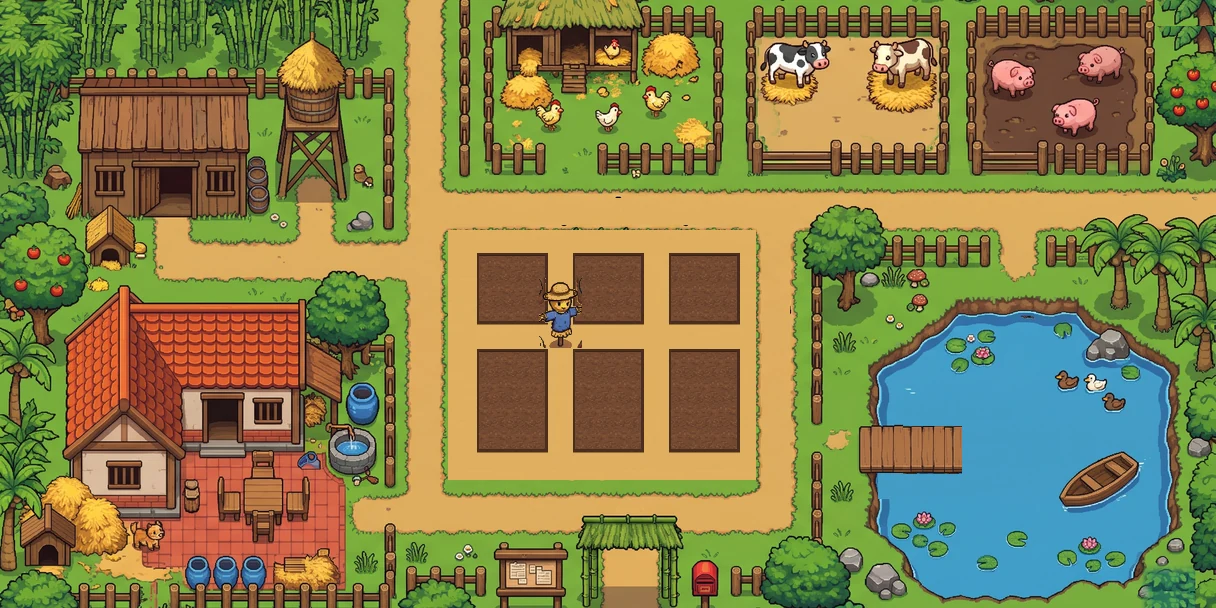
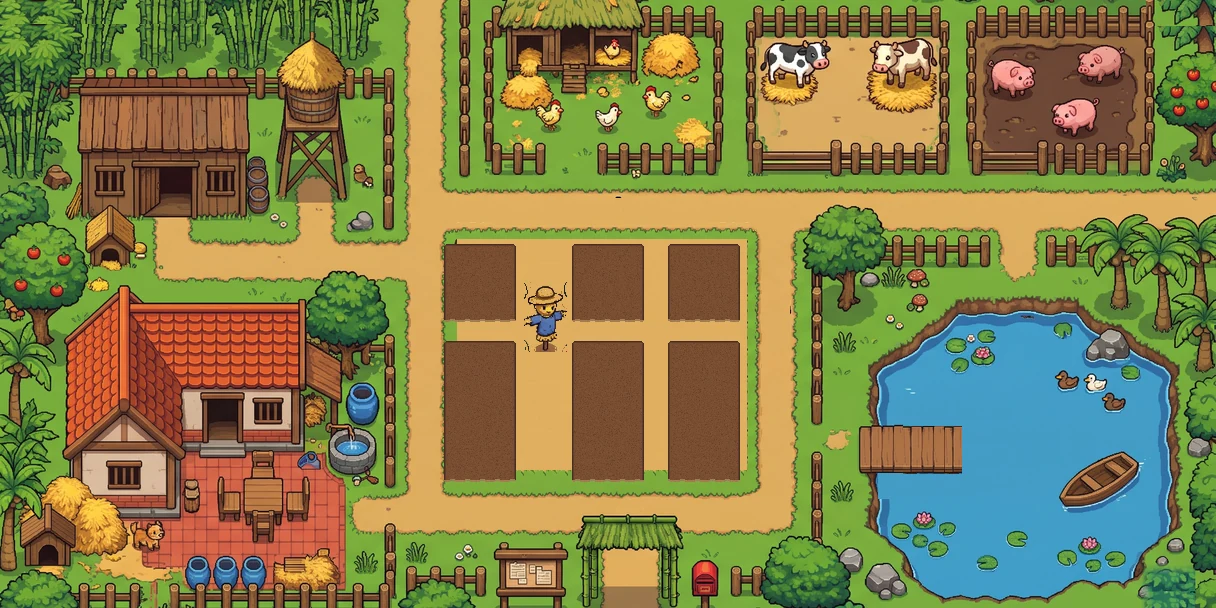
Khu trồng trọt: mép cỏ và luống đất giống ảnh thiết kế
- Giữ viền cỏ lởm chởm gốc quanh khu trồng trọt; các đoạn viền bị cây/nông
  dân vẽ đè được dựng lại bằng mảnh viền sạch cùng bức ảnh
- Luống vẽ lại theo vị trí, kích thước và màu của ảnh: đất nâu phẳng, mép
  tối nhẹ, gờ sáng và gợn ở mép dưới, bo góc; luống dưới cao 4 ô như ảnh
- Bản đồ vẽ sẵn không phủ ô đất cày lên luống nữa, chỉ sẫm màu khi tưới
- Bỏ vụn đất còn dính quanh bù nhìn

Claude-Session: https://claude.ai/code/session_01BbaPnx3cHQqz9kHRAFFL9w

Changed region(s): [[0.3438, 0.375, 0.625, 0.8125]]

diff --git a/shared/maps/farm.ts b/shared/maps/farm.ts
@@ -68,8 +68,8 @@ export interface GameMap {
 
 /** Crop beds, in tiles (inclusive). Must match BEDS in tools/build_farm_map.py. */
 export const FARM_BEDS: Rect[] = [
-  { x0: 15, y0: 8, x1: 16, y1: 9 }, { x0: 18, y0: 8, x1: 19, y1: 9 }, { x0: 21, y0: 8, x1: 22, y1: 9 },
-  { x0: 15, y0: 11, x1: 16, y1: 13 }, { x0: 18, y0: 11, x1: 19, y1: 13 }, { x0: 21, y0: 11, x1: 22, y1: 13 },
+  { x0: 14, y0: 8, x1: 15, y1: 9 }, { x0: 18, y0: 8, x1: 19, y1: 9 }, { x0: 21, y0: 8, x1: 22, y1: 9 },
+  { x0: 14, y0: 11, x1: 15, y1: 14 }, { x0: 18, y0: 11, x1: 19, y1: 14 }, { x0: 21, y0: 11, x1: 22, y1: 14 },
 ];
 
 export function buildFarm(): GameMap {
@@ -88,9 +88,9 @@ export function buildFarm(): GameMap {
   bed(0, [['carrot', 3], ['carrot', 2]]);
   bed(1, [['strawberry', 2], ['strawberry', 1]]);
   bed(2, [['tomato', 3], ['tomato', 3]]);
-  bed(3, [['turnip', 2], ['turnip', 1], ['', 0]]);
-  bed(4, [['tomato', 1], ['eggplant', 2], ['eggplant', 1]]);
-  bed(5, [['pumpkin', 3], ['pumpkin', 2], ['', 0]]);
+  bed(3, [['turnip', 2], ['turnip', 1], ['carrot', 1], ['', 0]]);
+  bed(4, [['tomato', 2], ['tomato', 1], ['eggplant', 2], ['eggplant', 1]]);
+  bed(5, [['pumpkin', 3], ['pumpkin', 2], ['strawberry', 1], ['', 0]]);
 
   const spots: { id: string; x: number; y: number }[] = [];
   for (let y = 16; y <= 18; y++) {

diff --git a/client/src/main.ts b/client/src/main.ts
@@ -174,7 +174,8 @@ function render(time: number) {
     const tx = +k.slice(0, i), ty = +k.slice(i + 1);
     if (tx < x0 || tx > x1 || ty < y0 || ty > y1) continue;
     const p = plots[k];
-    drawAt(ctx, atlas, p.w ? 'tile_soil_wet' : 'tile_soil', tx * TILE, ty * TILE);
+    if (!map.background) drawAt(ctx, atlas, p.w ? 'tile_soil_wet' : 'tile_soil', tx * TILE, ty * TILE);
+    else if (p.w) { ctx.fillStyle = 'rgba(40,20,10,0.35)'; ctx.fillRect(tx * TILE + 1, ty * TILE + 1, TILE - 2, TILE - 2); }
     if (!p.c) continue;
     if (p.s === 0) drawAt(ctx, atlas, 'seeds', tx * TILE, ty * TILE);
     else push(p.s >= RIPE ? 'crop_' + p.c : p.s === 1 ? 'crop_young' : 'crop_sprout', tx * TILE + 16, ty * TILE + TILE - 1, false);

diff --git a/tools/build_farm_map.py b/tools/build_farm_map.py
@@ -76,9 +76,13 @@ def clone(img, src_rect, dst_xy, base):
     img.paste(base.crop(src_rect), dst_xy)
 
 
-# beds, aligned to the tile grid (tile coords, inclusive)
-BEDS = [(15, 8, 16, 9), (18, 8, 19, 9), (21, 8, 22, 9),
-        (15, 11, 16, 13), (18, 11, 19, 13), (21, 11, 22, 13)]
+# beds (tile coords, inclusive) must match FARM_BEDS in shared/maps/farm.ts.
+BEDS = [(14, 8, 15, 9), (18, 8, 19, 9), (21, 8, 22, 9),
+        (14, 11, 15, 14), (18, 11, 19, 14), (21, 11, 22, 14)]
+# how each bed is painted (output px), copied from the mockup's bed positions
+_COLS = [(444, 516), (572, 644), (668, 740)]
+_ROWS = [(244, 323), (341, 483)]
+BED_VISUAL = [(c[0], r[0], c[1], r[1]) for r in _ROWS for c in _COLS]
 
 
 def main():
@@ -89,26 +93,74 @@ def main():
     # ---- sand texture patch from a clean stretch of path
     sand = base.crop(orect(1165, 393, 1295, 431))
     # ---- 1. repaint the crop area interior as sand (removes farmers, beds)
-    fill_rect(img, orect(737, 442, 1243, 848), sand, seed=2)
+    fill_rect(img, orect(752, 456, 1230, 834), sand, seed=2)
+    # fringe band: keep the painted grass edge, turn leftover bed soil into sand
+    ox0, oy0, ox1, oy1 = orect(737, 442, 1243, 848)
+    ix0, iy0, ix1, iy1 = orect(752, 456, 1230, 834)
+    sp_ = sand.load(); ip = img.load()
+    for y in range(oy0, oy1):
+        for x in range(ox0, ox1):
+            if ix0 <= x < ix1 and iy0 <= y < iy1:
+                continue
+            r_, g_, b_ = ip[x, y]
+            soil_like = r_ < 175 and g_ < 135 and r_ > g_ + 25 and b_ < g_
+            if soil_like:
+                ip[x, y] = sp_[x % sand.width, y % sand.height]
+    # fringe strips over-painted by crops/farmers: rebuild them by tiling clean
+    # pieces of the same painted edge (mockup coords)
+    def tile_strip(src, dst):
+        sx0, sy0, sx1, sy1 = orect(*src)
+        dx0, dy0, dx1, dy1 = orect(*dst)
+        piece = base.crop((sx0, sy0, sx1, sy1))
+        if dx1 - dx0 > dy1 - dy0:      # horizontal strip
+            x = dx0
+            while x < dx1:
+                img.paste(piece.crop((0, 0, min(piece.width, dx1 - x), dy1 - dy0)), (x, dy0)); x += piece.width
+        else:
+            y = dy0
+            while y < dy1:
+                img.paste(piece.crop((0, 0, dx1 - dx0, min(piece.height, dy1 - y))), (dx0, y)); y += piece.height
+    tile_strip((876, 430, 918, 457), (748, 430, 1232, 457))      # top edge
+    tile_strip((882, 832, 918, 856), (748, 832, 1232, 856))      # bottom edge
+    tile_strip((1228, 676, 1252, 720), (1228, 457, 1252, 832))   # right edge
+
     # ---- 2. label "KHU VỰC TRỒNG TRỌT" on the road
     fill_rect(img, orect(812, 390, 1166, 434), sand, seed=3)
     # ---- 3. watering farmer outside the crop area: copy the strip just below
     x0, y0, x1, y1 = orect(1243, 528, 1300, 642)
     clone(img, (x0, y1 + 4, x1, y1 + 4 + (y1 - y0)), (x0, y0), base)
 
-    # ---- 4. beds: dark soil with a rim, aligned to tiles
-    soil_src = Image.open(os.path.join(ROOT, 'assets/source/sheet4.png')).convert('RGB')
-    soil = soil_src.crop((1402, 252, 1530, 325)).resize((44, 25), Image.BOX)
-    for (tx0, ty0, tx1, ty1) in BEDS:
-        r = (tx0 * T - 3, ty0 * T - 3, (tx1 + 1) * T + 3, (ty1 + 1) * T + 3)
-        d.rectangle(r, fill=(74, 46, 30))
-        fill_rect(img, (r[0] + 2, r[1] + 2, r[2] - 2, r[3] - 2), soil, seed=tx0 * 7 + ty0)
-        d.line([(r[0] + 2, r[1] + 2), (r[2] - 3, r[1] + 2)], fill=(58, 36, 24))
-        d.line([(r[0], r[3] + 1), (r[2], r[3] + 1)], fill=(150, 112, 62))   # light lip below
+    # ---- 4. beds, matching the painted ones: flat mid-brown soil, soft darker
+    # edge, light lip along the bottom, slightly wavy lower edge
+    rnd = random.Random(11)
+    ip = img.load()
+    for (vx0, vy0, vx1, vy1) in BED_VISUAL:
+        for y in range(vy0, vy1):
+            for x in range(vx0, vx1):
+                # rounded corners (r=3)
+                cx_ = min(x - vx0, vx1 - 1 - x); cy_ = min(y - vy0, vy1 - 1 - y)
+                if cx_ < 3 and cy_ < 3 and (3 - cx_) ** 2 + (3 - cy_) ** 2 > 10:
+                    continue
+                wave = 1 if (x // 5 + vx0) % 3 == 0 else 0
+                if y >= vy1 - 1 - wave:
+                    continue
+                edge = min(x - vx0, vx1 - 1 - x, y - vy0)
+                n = rnd.randint(-5, 5)
+                if y >= vy1 - 3 - wave:
+                    col = (160 + n, 126 + n, 82 + n)        # light lip
+                elif edge == 0:
+                    col = (72, 46, 34)
+                elif edge == 1:
+                    col = (96, 61, 42)
+                else:
+                    col = (121 + n, 77 + n, 50 + n)
+                    if rnd.random() < 0.04:
+                        col = (104, 66, 44)
+                ip[x, y] = col
 
     # ---- 5. scarecrow back, standing between the bed rows
     sc = base.crop(orect(862, 528, 932, 642))
-    sx, sy = 17 * T + 16 - sc.width // 2, 11 * T - 4 - sc.height
+    sx, sy = 545 - sc.width // 2, 352 - sc.height
     # paste only its non-sand pixels
     mask = Image.new('L', sc.size, 0)
     mp, sp = mask.load(), sc.load()
@@ -117,7 +169,8 @@ def main():
             r_, g_, b_ = sp[x, y]
             sandish = r_ > 190 and 140 < g_ < 200 and b_ < 140
             leafy = g_ > r_ + 15 and g_ > b_ + 30
-            mp[x, y] = 0 if (sandish or leafy) else 255
+            soil = r_ < 150 and r_ > g_ + 25 and g_ < 105 and b_ < 80 and (x < 12 or x > sc.width - 13)
+            mp[x, y] = 0 if (sandish or leafy or soil) else 255
     img.paste(sc, (sx, sy), mask)
 
     # ---- 6. fisherman on the dock: clean water + rebuild the dock end
@@ -176,8 +229,8 @@ def main():
                 solid[cy][cx] = 0
 
     # scarecrow standing between the bed rows (output px)
-    for cy in range((11 * T - 14) // CELL, (11 * T - 2) // CELL + 1):
-        for cx in range((17 * T + 8) // CELL, (17 * T + 24) // CELL + 1):
+    for cy in range(338 // CELL, 350 // CELL + 1):
+        for cx in range(537 // CELL, 553 // CELL + 1):
             solid[cy][cx] = 1
 
     meta = {'w': OW, 'h': OH, 'cell': CELL, 'mask': [''.join(map(str, row)) for row in solid]}
